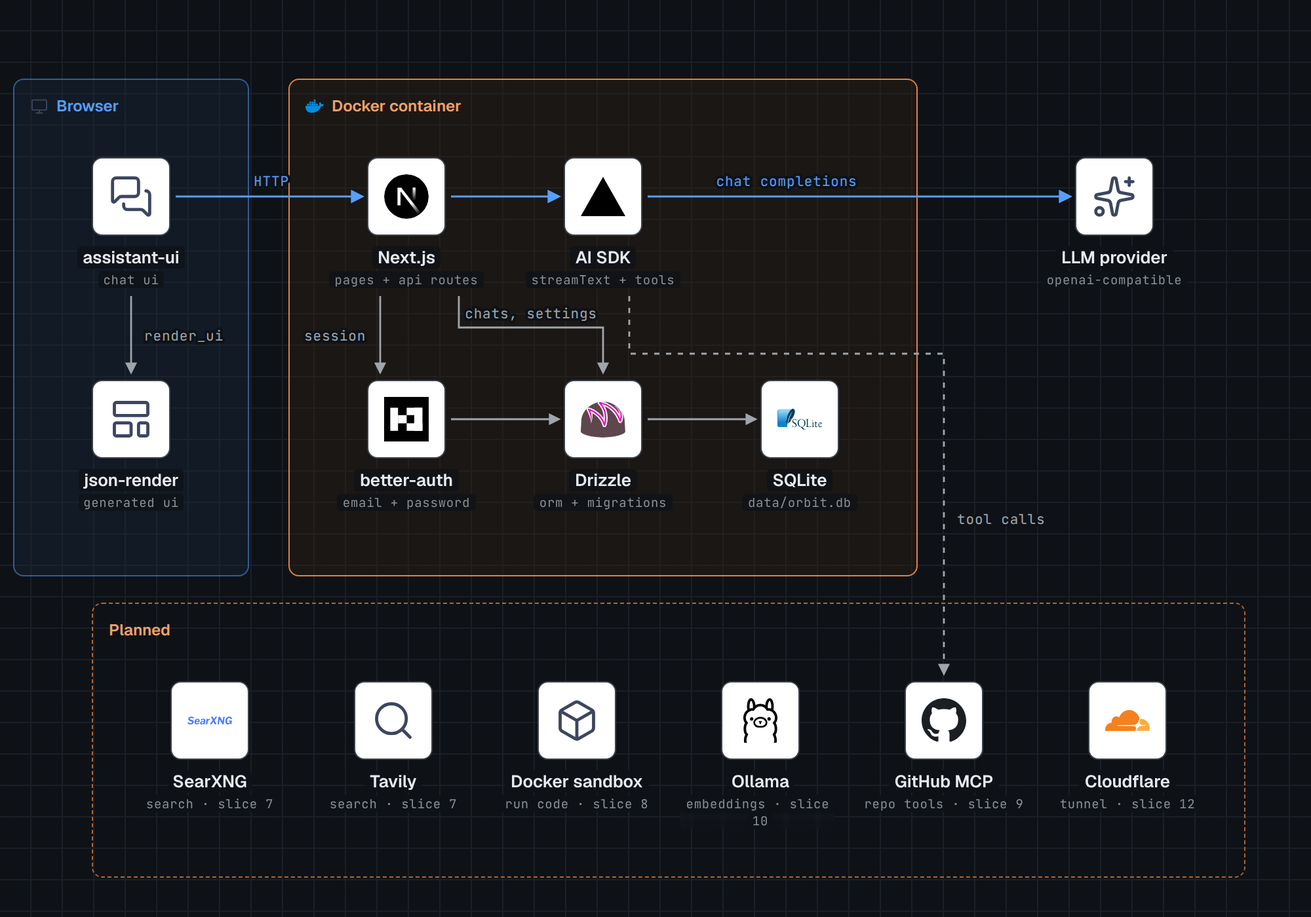
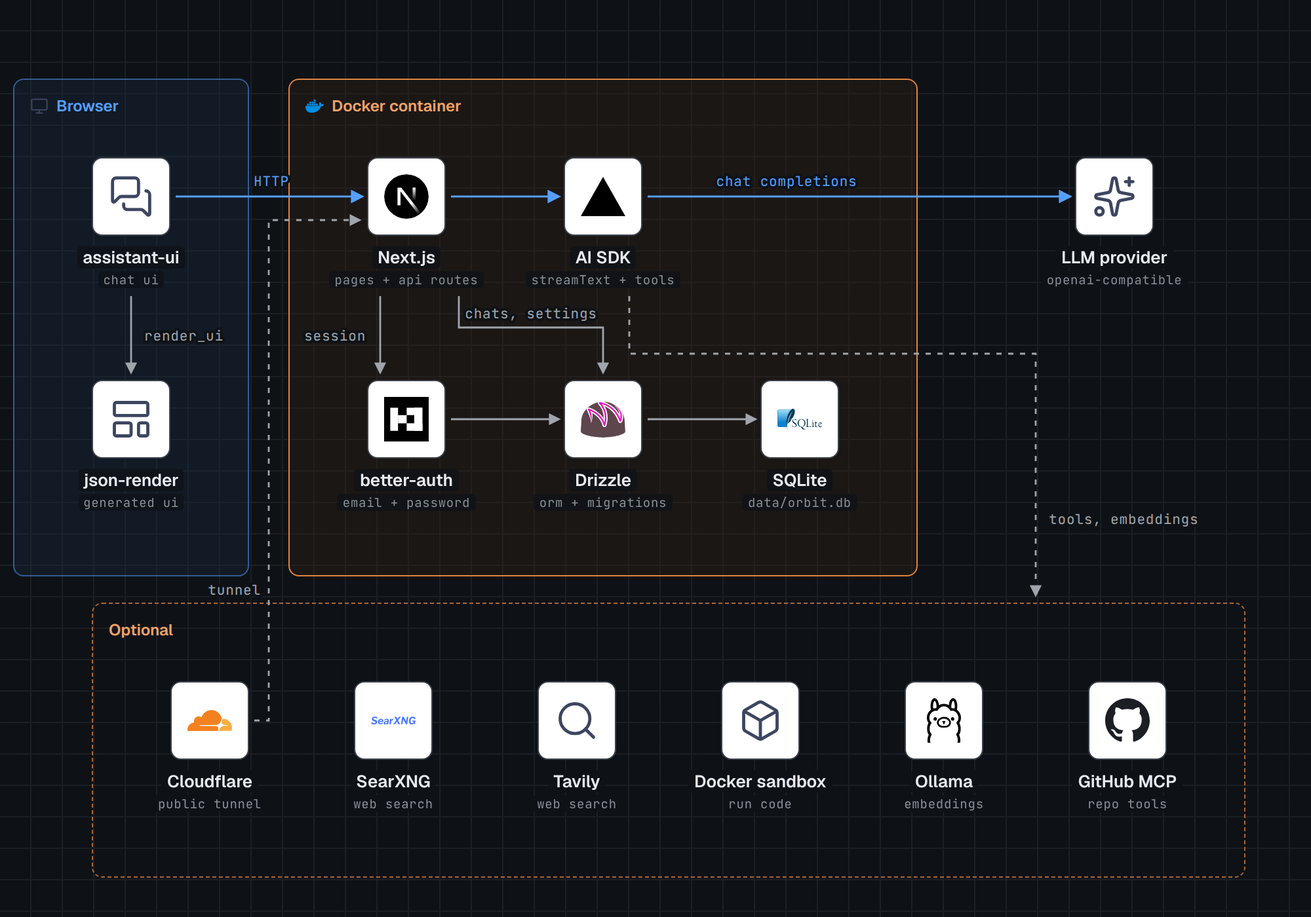
docs: describe slices 9 to 12 in ARCHITECTURE.md, README.md, and .env.example (#130) (#234)
* docs: describe slices 9 to 12 in ARCHITECTURE.md, README.md, and .env.example (#130)

* docs: draw shipped services as optional and cite ARCHITECTURE.md by section (#130)

The stack diagram still drew SearXNG, Tavily, the Docker sandbox,
Ollama, GitHub MCP, and Cloudflare in a box labeled Planned. All six
shipped in slices 7 to 12. The box is now labeled Optional, the
Cloudflare tunnel points into Next.js, and the outbound edge reads
"tools, embeddings". Both PNGs are re-rendered from the source, and the
note in ARCHITECTURE.md that said the drawing lagged is gone.

docs/slices/18.md cited ARCHITECTURE.md by line number, and those lines
had moved. It now names the sections and rows it means.

diff --git a/docs/architecture/stack.src.html b/docs/architecture/stack.src.html
@@ -163,7 +163,7 @@ path.aws { stroke: var(--color-ink); stroke-width:1.6; fill:none; }
       <div class="kicker">orbit / architecture / 2026-11</div>
       <h1>Orbit</h1>
     </div>
-    <p class="lede">One Next.js process on 127.0.0.1:3210. The dashed box is planned work.</p>
+    <p class="lede">One Next.js process on 127.0.0.1:3210. The dashed box holds optional services.</p>
   </header>
   <div class="scroller">
   <div class="canvas">
@@ -174,7 +174,7 @@ path.aws { stroke: var(--color-ink); stroke-width:1.6; fill:none; }
       <div class="g-label"><img src="%%ICON_docker%%" alt="">Docker container</div>
     </div>
     <div class="group ga-nested" style="left:70px; top:460px; width:880px; height:210px;">
-      <div class="g-label">Planned</div>
+      <div class="g-label">Optional</div>
     </div>
     <svg class="edges" viewBox="0 0 1000 700" aria-hidden="true">
       <defs>
@@ -195,8 +195,10 @@ path.aws { stroke: var(--color-ink); stroke-width:1.6; fill:none; }
       <text class="el" x="405" y="243" text-anchor="middle">chats, settings</text>
       <path class="n" d="M344 320 H426" marker-end="url(#ar)"/>
       <path class="n" d="M494 320 H576" marker-end="url(#ar)"/>
-      <path class="n dash" d="M480 226 V270 H720 V514" marker-end="url(#ar)"/>
-      <text class="el" x="730" y="400">tool calls</text>
+      <path class="n dash" d="M480 226 V270 H790 V454" marker-end="url(#ar)"/>
+      <text class="el" x="800" y="400">tools, embeddings</text>
+      <path class="n dash" d="M194 550 H205 V168 H274" marker-end="url(#ar)"/>
+      <text class="el" x="199" y="454" text-anchor="end">tunnel</text>
     </svg>
     <div class="node" style="left:34px;top:120px">
       <div class="tile"><img src="%%ICON_assistantui%%" alt=""></div>
@@ -231,35 +233,35 @@ path.aws { stroke: var(--color-ink); stroke-width:1.6; fill:none; }
       <div class="name"><span>LLM provider</span></div><div class="role"><span>openai-compatible</span></div>
     </div>
     <div class="node" style="left:94px;top:520px">
-      <div class="tile"><img src="%%ICON_searxng%%" alt=""></div>
-      <div class="name"><span>SearXNG</span></div><div class="role"><span>search · slice 7</span></div>
+      <div class="tile"><img src="%%ICON_cloudflare%%" alt=""></div>
+      <div class="name"><span>Cloudflare</span></div><div class="role"><span>public tunnel</span></div>
     </div>
     <div class="node" style="left:234px;top:520px">
-      <div class="tile"><img src="%%ICON_tavily%%" alt=""></div>
-      <div class="name"><span>Tavily</span></div><div class="role"><span>search · slice 7</span></div>
+      <div class="tile"><img src="%%ICON_searxng%%" alt=""></div>
+      <div class="name"><span>SearXNG</span></div><div class="role"><span>web search</span></div>
     </div>
     <div class="node" style="left:374px;top:520px">
-      <div class="tile"><img src="%%ICON_sandbox%%" alt=""></div>
-      <div class="name"><span>Docker sandbox</span></div><div class="role"><span>run code · slice 8</span></div>
+      <div class="tile"><img src="%%ICON_tavily%%" alt=""></div>
+      <div class="name"><span>Tavily</span></div><div class="role"><span>web search</span></div>
     </div>
     <div class="node" style="left:514px;top:520px">
-      <div class="tile"><img src="%%ICON_ollama%%" alt=""></div>
-      <div class="name"><span>Ollama</span></div><div class="role"><span>embeddings · slice 10</span></div>
+      <div class="tile"><img src="%%ICON_sandbox%%" alt=""></div>
+      <div class="name"><span>Docker sandbox</span></div><div class="role"><span>run code</span></div>
     </div>
     <div class="node" style="left:654px;top:520px">
-      <div class="tile"><img src="%%ICON_github%%" alt=""></div>
-      <div class="name"><span>GitHub MCP</span></div><div class="role"><span>repo tools · slice 9</span></div>
+      <div class="tile"><img src="%%ICON_ollama%%" alt=""></div>
+      <div class="name"><span>Ollama</span></div><div class="role"><span>embeddings</span></div>
     </div>
     <div class="node" style="left:794px;top:520px">
-      <div class="tile"><img src="%%ICON_cloudflare%%" alt=""></div>
-      <div class="name"><span>Cloudflare</span></div><div class="role"><span>tunnel · slice 12</span></div>
+      <div class="tile"><img src="%%ICON_github%%" alt=""></div>
+      <div class="name"><span>GitHub MCP</span></div><div class="role"><span>repo tools</span></div>
     </div>
   </div>
   </div>
   <div class="legend">
     <span><span class="sw"></span>request path</span>
     <span><span class="sw n"></span>internal</span>
-    <span><span class="sw n dash"></span>planned</span>
+    <span><span class="sw n dash"></span>optional</span>
   </div>
   <div class="foot">
     <span>orbit</span>

diff --git a/ARCHITECTURE.md b/ARCHITECTURE.md
@@ -8,19 +8,17 @@ Orbit is one Next.js process. It serves the pages, the API routes, and the chat 
 
 <picture>
   <source media="(prefers-color-scheme: dark)" srcset="docs/architecture/stack-dark.png">
-  <img alt="Orbit stack. The browser runs assistant-ui and json-render. A Docker container runs Next.js, the AI SDK, better-auth, Drizzle, and SQLite. The AI SDK calls an OpenAI-compatible provider. A dashed box holds planned services: SearXNG, Tavily, a Docker sandbox, Ollama, GitHub MCP, and Cloudflare." src="docs/architecture/stack.png">
+  <img alt="Orbit stack. The browser runs assistant-ui and json-render. A Docker container runs Next.js, the AI SDK, better-auth, Drizzle, and SQLite. The AI SDK calls an OpenAI-compatible provider. A dashed box groups the optional services: a Cloudflare tunnel into Next.js, then SearXNG, Tavily, a Docker sandbox, Ollama, and GitHub MCP, which the server calls for tools and embeddings." src="docs/architecture/stack.png">
 </picture>
-
-The diagram predates slices 7 and 8. SearXNG, Tavily, and the code sandbox now connect through the tool registry. The remaining dashed nodes are planned, and each node names its slice.
 
 ## One chat turn, end to end
 
 1. You type in the composer. assistant-ui sends `POST /api/chat` through `orbitChatTransport` in `src/lib/chat-transport.ts`. The transport puts the open chat id on the request, because assistant-ui would otherwise send its own local thread id.
 2. `src/proxy.ts` checks the session cookie and forwards any `Set-Cookie` header better-auth returns when a session refreshes or expires. `src/lib/session.ts` reads the session with refresh disabled so only the proxy moves a session forward. Every page and API route needs a session except `/login`, `/signup`, `/api/auth/*`, and `/api/setup`. An API request with a method other than `GET`, `HEAD`, or `OPTIONS`, other than `/api/auth/*`, gets 403 when it carries a `Sec-Fetch-Site` other than `same-origin`, or, without Fetch Metadata, an `Origin` that is not a trusted origin. The browser sets `Sec-Fetch-Site`, so a write it marks `same-origin` passes without consulting the trusted list. A write with neither header, such as curl, passes. `/api/auth/*` uses better-auth's origin check.
 3. `src/app/api/chat/route.ts` reads the body up to `LIMITS.requestBytes` (32 MiB, else `413`), parses it with zod, and holds each message the chat does not store yet to the message limits (a user message over 50,000 characters gets `413`; stored messages keep working at any length), loads the settings row, and calls `planChatWrite` in `src/lib/messages.ts`. That function saves the incoming user messages and returns a `ReplyPlan`: the id the reply will be stored under, plus copies of the prompt row and of the saved reply the stream continues, if any. It refuses a request with no user message with `400`, and a write planned against an older copy of the chat with `409`. It moves `chats.head_id` to the prompt, or to the saved reply the stream continues.
-4. The route calls `streamText` from the AI SDK with the model from `orbitModel` in `src/lib/provider.ts` and the tools from `toolsFor(settings)` in `src/lib/tools/index.ts`. The registry always enables `render_ui`, enables `web_search` when a search backend is configured, and enables `run_code` only when the server sets `ORBIT_SANDBOX=on`. The loop stops after at most five model steps. The fifth step allows only `render_ui` and receives the completed conversation as JSON data, so the model answers instead of calling another tool or writing tool-call markup. It keeps the route instructions so the model can answer with citations, render a card, or write an artifact without searching again.
+4. The route calls `streamText` from the AI SDK with the model from `orbitModel` in `src/lib/provider.ts` and the tools from `toolsForTurn` in `src/lib/tools/index.ts`. The registry always enables `render_ui`, `remember`, and `forget`, enables `web_search` when a search backend is configured, and enables `run_code` only when the server sets `ORBIT_SANDBOX=on`. `toolsForTurn` also tries to add the `github_*` tools when a GitHub token is saved. If loading fails, the failure is logged as one redacted line and the turn runs without GitHub tools. The route closes the GitHub client when the turn ends. Before the model call, the route asks `recall` in `src/lib/memory/recall.ts` for up to three memories relevant to the last user message. Recall returns none when there are no memories or nothing matches. Otherwise the route attaches them as quoted notes on that user message, as data and not as instructions, and adds `REMEMBER_INSTRUCTIONS` to the system text. The loop stops after at most five model steps. The fifth step allows only `render_ui` and receives the completed conversation as JSON data, so the model answers instead of calling another tool or writing tool-call markup. It keeps the route instructions so the model can answer with citations, render a card, or write an artifact without searching again.
 5. The stream goes back to the browser as AI SDK UI message parts. Text, reasoning, and tool parts render as they arrive.
-6. When the stream ends, `onEnd` passes the plan and the reply's parts to `finishChatReply` in `src/lib/messages.ts`. It saves only a reply that has a visible part, and nothing when a row the plan copied has changed. A regenerate saves a new sibling and keeps the earlier reply.
+6. When the stream ends, `onEnd` passes the plan and the reply's parts to `finishChatReply` in `src/lib/messages.ts`. It saves only a reply that has a visible part, and nothing when a row the plan copied has changed. A regenerate saves a new sibling and keeps the earlier reply. The hook also starts `embedPending()` in `src/lib/memory/embed.ts`, which fills in the memory vectors Ollama has not returned yet, and closes the GitHub tools.
 7. On reload, `src/app/(app)/c/[id]/page.tsx` loads every message and its parent into the history adapter. The chat opens the path ending at `chats.head_id`.
 
 ## The rules of a turn
@@ -101,29 +99,38 @@ statechart docs/architecture/ChatTurn.tla --config docs/architecture/ChatTurn.cf
 
 | Path | What lives there |
 | --- | --- |
-| `src/app/(app)/` | Signed-in pages: the chat at `/c/[id]`, settings, and the app shell layout. |
+| `src/app/(app)/` | Signed-in pages: the chat at `/c/[id]`, settings, the memory page, and the app shell layout. |
 | `src/app/login/`, `src/app/signup/` | The two public pages. |
 | `src/app/api/chat/route.ts` | The chat stream. The only route that calls the model. |
 | `src/app/api/chats/` | List and create chats, read one chat. `PATCH .../messages/[messageId]` saves an edited reply. |
-| `src/app/api/settings/`, `src/app/api/models/` | Read and save the provider settings. List the provider's models. |
+| `src/app/api/settings/`, `src/app/api/models/` | Read and save the provider, search, and GitHub settings. List the provider's models. |
+| `src/app/api/settings/github/check/` | Checks a saved or submitted GitHub token against the MCP server, and returns the login or the error. |
+| `src/app/api/memories/` | List and search memories. `PATCH .../[id]` edits one and `DELETE .../[id]` deletes one. |
+| `src/app/api/search/` | Full-text search over stored messages. |
 | `src/app/api/setup/` | Tells the login page whether signup is still open. |
+| `src/instrumentation.ts` | Runs once at server start. It imports the database, which migrates it, starts the dream scheduler, and starts the sandbox sweep when the sandbox is on. |
 | `src/proxy.ts` | The session gate for every request. |
 | `src/lib/db/` | The SQLite connection, the Drizzle schema, and the migration lock. |
 | `src/lib/messages.ts` | Chat and message reads and writes. All write planning lives here. |
+| `src/lib/memory/` | Memory storage, hybrid recall, Ollama embeddings, the nightly dream, and the dream scheduler. |
+| `src/lib/search.ts` | The FTS5 match queries behind message and memory search. |
 | `src/lib/provider.ts` | The model client, reasoning options, the model list, and provider quirks. |
 | `src/lib/settings.ts` | The settings row. `toPublicSettings` is the only shape that leaves the server. |
-| `src/lib/tools/` | The tool registry, SearXNG and Tavily search adapters, browser-safe card metadata, and tool status rules. |
+| `src/lib/tools/` | The tool registry, the GitHub MCP client, SearXNG and Tavily search adapters, browser-safe card metadata, and tool status rules. |
 | `src/lib/sandbox/` | The fixed container policy, pinned language images, per-run Docker lifecycle, and the sweep of stale containers. |
 | `src/components/tools/` | Saved tool run cards, search result links, and the generic JSON disclosure. |
 | `src/lib/genui/` | The `render_ui` tool: the component catalog, the spec parser, and the system prompt. |
 | `src/components/chat/` | Thread, messages, composer, code blocks, inline editors, and the thread map. |
+| `src/components/memory/` | The memory page body: the list, its search, and each row's save and delete errors. |
+| `src/components/settings/` | The settings form and its sections. |
+| `src/components/auth/` | The shared login and signup form. |
 | `src/lib/artifacts/` | Artifact language detection, prompt instructions and the sandboxed frame document. |
 | `src/components/artifacts/` | Preview registration, URL selection, lazy compilation and the responsive panel. |
 | `src/components/genui/` | The React side of `render_ui`: the component registry and the fallback card. |
 | `src/components/shell/` | App shell, sidebar, command palette, and keyboard shortcuts. |
 | `src/components/ui/` | shadcn/ui primitives, styled with the tokens in `src/app/globals.css`. |
 | `drizzle/` | SQL migrations. `npm run db:generate` writes new ones from `src/lib/db/schema.ts`. |
-| `scripts/` | Smoke tests against a running server and the browser QA script with its mock provider. |
+| `scripts/` | Smoke tests against a running server, the browser QA script with its mock provider, the nightly dream runner (`npm run dream`), and the Cloudflare deploy wizard. |
 | `.agents/skills/verify-orbit/` | The verification skill. It launches a sandboxed server and drives each feature. |
 | `.agents/skills/verify-chat-turn/` | Model-checks the chat write path with TLC, and records which functions each model describes. |
 
@@ -134,9 +141,12 @@ All state is in `data/orbit.db`. The directory is mode `0700`, and the database 
 | Table | Rows | Notes |
 | --- | --- | --- |
 | `user`, `session`, `account`, `verification` | better-auth's tables | A SQLite trigger, `user_single_row`, rejects a second user. |
-| `settings` | One row, `id = 1` | Base URL, provider key, model, reasoning effort, SearXNG URL, and Tavily key. Both keys stay on the server. |
+| `settings` | One row, `id = 1` | Base URL, provider key, model, reasoning effort, SearXNG URL, Tavily key, GitHub token, and GitHub MCP URL. The provider key, the Tavily key, and the GitHub token stay on the server. |
 | `chats` | One per conversation | `title` starts as `New chat` and takes the first message's text. `head_id` selects the last written branch. |
 | `messages` | One per user or assistant message | `parts` is the AI SDK parts array as JSON, and reload reads it. `content` is the plain text of the text parts, then the standard output and standard error of finished code runs, then the source of each code run. Search reads `content`. `parent_id` links each message to its parent. `position` is its depth. Siblings stay in creation order. |
+| `memories` | One per saved fact or preference | `kind`, `text` capped at 2,000 characters, normalized text that dedupes, and the source chat and message. `seq` is a stable integer key for the vector table, and `last_used_at` records the last recall that returned it. |
+| `memory_runs` | One per night | The dream run: `state`, the lease owner and deadline, the pending, done, and retry chat lists, and the added and merged counts. |
+| `messages_fts`, `memories_fts`, `memories_vec` | Search index tables | FTS5 over `messages` and `memories`, kept in sync by triggers, and the `vec0` table of memory embeddings, written by `src/lib/memory/store.ts`. |
 
 Tool output, generated UI specs, and reasoning all live inside `parts`. A new tool needs no new table unless it stores something outside a message.
 
@@ -146,21 +156,22 @@ Each container carries an owner label beside the shared sandbox label. The owner
 
 ## Rules that hold across the code
 
-- **The key stays on the server.** `GET /api/settings` returns `keySet`, `tavilyKeySet`, and `sandbox` booleans. `sandbox` says only whether the server set `ORBIT_SANDBOX=on`. The browser cannot change it. One `Redactor` (`src/lib/chat-errors.ts`), built from every stored credential, keeps the provider key, the Tavily key, and the GitHub token out of the chat route's log lines, the `errorText` of stream chunks, saved replies and their search text, and GitHub tool results and errors. In saved replies and tool results it replaces each value of 12 or more characters with `[redacted]`, matched literally with overlaps included, after the last step that decodes or joins text; shorter values stay, so a placeholder key such as `ollama` does not rewrite ordinary words. Log lines, stream error text and GitHub tool errors are never masked in place: when the raw error, the uncut text built from it, or the printed line holds a stored value of any length, the whole detail becomes a fixed text (`[redacted]`, or the log label alone), and a fixed text that itself holds a value is skipped. Other stream chunks reach the browser unmasked, and encoded or split keys are not matched (#186). A new settings field must be listed in its `SETTINGS_FIELDS` table, and a field whose name ends in `Key`, `Token`, `Secret`, `Password`, `Pat` or another noun in `CREDENTIAL_NOUNS`, plural, numbered or both, must be labelled `credential`, or typecheck fails. A credential kept in another table or read from the environment when used is outside that table. Tests and smoke scripts redact `ORBIT_API_KEY`.
+- **The key stays on the server.** `GET /api/settings` returns `keySet`, `tavilyKeySet`, `githubTokenSet`, and `sandbox` booleans. `sandbox` says only whether the server set `ORBIT_SANDBOX=on`. The browser cannot change it. One `Redactor` (`src/lib/chat-errors.ts`), built from every stored credential, keeps the provider key, the Tavily key, and the GitHub token out of the chat route's log lines, the `errorText` of stream chunks, saved replies and their search text, and GitHub tool results and errors. In saved replies and tool results it replaces each value of 12 or more characters with `[redacted]`, matched literally with overlaps included, after the last step that decodes or joins text; shorter values stay, so a placeholder key such as `ollama` does not rewrite ordinary words. Log lines, stream error text and GitHub tool errors are never masked in place: when the raw error, the uncut text built from it, or the printed line holds a stored value of any length, the whole detail becomes a fixed text (`[redacted]`, or the log label alone), and a fixed text that itself holds a value is skipped. Other stream chunks reach the browser unmasked, and encoded or split keys are not matched (#186). A new settings field must be listed in its `SETTINGS_FIELDS` table, and a field whose name ends in `Key`, `Token`, `Secret`, `Password`, `Pat` or another noun in `CREDENTIAL_NOUNS`, plural, numbered or both, must be labelled `credential`, or typecheck fails. A credential kept in another table or read from the environment when used is outside that table. Tests and smoke scripts redact `ORBIT_API_KEY`.
 - **One user.** The auth hook and the database trigger both close signup after the first account.
 - **Validate at the edge.** Routes parse request bodies, queries, and path parameters with zod schemas built from `r` in `src/lib/route-schema.ts`, which has no string or list without a size limit. `route-schema.test.ts` fails a route that imports `zod` directly. Tool input is parsed by the tool's schema and then by `parseRenderSpec`. Code behind those checks trusts its types.
 - **A browser request names its failure.** Browser code calls `requestJson` in `src/lib/request-json.ts`, never `fetch`. It takes a zod schema, `onOk`, and a required `onFailed` that receives `network`, `http` with the status, `invalid` for a body that is not JSON or does not match the schema, or `handler` when `onOk` threw. `requestJson` never rejects: a handler that throws is logged with `console.error`. A request whose signal was aborted runs neither, and `useLatestRequest` aborts the previous one, so an older answer cannot overwrite a newer one. A load that a screen shows is `Loaded<T>` (`idle`, `pending`, `failed`, `done`), so only `done` can show an empty result. `src/lib/no-direct-fetch.test.ts` fails on a direct `fetch(`, `fetch?.(`, `["fetch"](`, `XMLHttpRequest`, `EventSource`, or `sendBeacon` call; it cannot see an alias of `fetch` or a call split across lines. The chat stream transport is not a JSON request and is out of scope.
 - **The server owns history.** The client sends its copy of the thread, but `planChatWrite` decides what is stored and refuses a write against a changed chat.
-- **Bind to localhost.** Docker Compose publishes `127.0.0.1:3210` only. Remote access is planned behind Cloudflare Access in [slice 12](docs/slices/12.md).
+- **Bind to localhost.** Docker Compose publishes `127.0.0.1:3210` only. The `public` Compose profile starts a `cloudflared` tunnel, so remote access goes through Cloudflare Access and no port opens on the machine.
 
 ## Feature boundaries
 
 Shipped and planned slices use these boundaries. The plans in [`docs/slices/`](docs/slices/) give the details.
 
-- **Tools.** `toolsFor(settings)` in `src/lib/tools/` builds the enabled tools. [Slice 7](docs/slices/07.md) adds SearXNG search with Tavily as a fallback. Each backend has an eight-second timeout. Tavily cancellation uses a request-scoped signal adapter because the pinned SDK has no signal option. Concurrent requests keep separate signals. The browser shares only card metadata with the registry. Run cards derive running, succeeded, failed, or cancelled from message parts and survive reload. `toolRunEnd` and `toolCallRunEnd` in `src/lib/tools/run-status.ts` are the only code that decides this, and `STOP_MARKERS` there holds every stop text that saved chats store. `run-status-scan.test.ts` fails when another file compares `errorText` or `output.error`, or writes a stop text as a literal. Unknown tools show their output behind a disclosure.
+- **Tools.** `toolsForTurn` in `src/lib/tools/` builds one turn's tools from the registry and adds the `github_*` tools when a GitHub token is saved. [Slice 7](docs/slices/07.md) adds SearXNG search with Tavily as a fallback. Each backend has an eight-second timeout. Tavily cancellation uses a request-scoped signal adapter because the pinned SDK has no signal option. Concurrent requests keep separate signals. The browser shares only card metadata with the registry. Run cards derive running, succeeded, failed, or cancelled from message parts and survive reload. `toolRunEnd` and `toolCallRunEnd` in `src/lib/tools/run-status.ts` are the only code that decides this, and `STOP_MARKERS` there holds every stop text that saved chats store. `run-status-scan.test.ts` fails when another file compares `errorText` or `output.error`, or writes a stop text as a literal. Unknown tools show their output behind a disclosure.
 - **Artifacts.** [Slice 5](docs/slices/05.md) renders HTML, SVG, and React code blocks in a side panel. The code runs in an `<iframe sandbox="allow-scripts">` with a strict Content Security Policy, so it cannot read the app's cookies or call its API. The app page paths in `next.config.ts` send `frame-src 'none'`, so the frame cannot load another URL into itself. Route handlers can set their own CSP.
 - **History.** Messages form a tree. Edits and regenerates add siblings, and the branch picker switches between them. A reload opens the last written branch. Switching alone does not update `head_id`. A search hit off that branch opens the branch through the hit that was written last, which ends at the newest message below the hit, and does not update `head_id` either.
 - **Search.** [Slice 6](docs/slices/06.md) adds an FTS5 index (SQLite full-text search) over `messages`, kept in sync by triggers.
+- **GitHub.** [Slice 9](docs/slices/09.md) adds the `github_*` tools from GitHub's MCP server, read-only, limited to the repository, issue, and pull request toolsets. `toolsForTurn` loads them only when the settings row holds a GitHub token, and caches the tool list for five minutes per token. The route closes the client when the turn ends. When the server is unreachable or the token is wrong, the turn still runs without GitHub tools and logs one redacted line. GitHub tool results are untrusted text: the route tells the model so, and run cards render them as links.
 - **Memory.** [Slice 10](docs/slices/10.md) adds a `memories` table with its own FTS5 index and a `sqlite-vec` table for embeddings from Ollama. [Slice 11](docs/slices/11.md) fills it from the day's chats each night. A night's row in `memory_runs` changes only through `transition` in `src/lib/memory/run-state.ts`, which `advance` in `src/lib/memory/dream.ts` applies inside one write transaction. A run reaches `done` only with a successful final embed pass, and a failed run keeps every unfinished chat for the next night.
 
 ## Rebuild the stack diagram

diff --git a/docs/slices/18.md b/docs/slices/18.md
@@ -311,7 +311,7 @@ Edit:
 - `.agents/skills/verify-orbit/verify.mjs`. Add `seed-member`, which writes `member@orbit.local` with a fixed test password into `.verify/sandbox/data/orbit.db` using `hashPassword` from `better-auth/crypto`, and refuses any other database. Add one helper that saves instance settings through `/api/admin/settings`.
 - Every scenario, feature file, and script that saves search or GitHub settings. `rg -ln "searxngUrl|tavilyApiKey|githubToken|api/settings" .agents scripts` finds 29 files at `291149c`. Slice 17 changes some first. Point them at the new helper instead of editing each request by hand.
 - `.env.example`, README env table (`ORBIT_GITHUB_TOKEN` seeds the first account, `ORBIT_DREAM_HOUR` seeds the dream hour, search seeds seed `instance_settings`).
-- `ARCHITECTURE.md` lines 20-21, 103-104, 109, 130-131, 141-142, 155 for the new tables, routes, and the policy. Line 142 stays true but names `policyFor`.
+- `ARCHITECTURE.md` for the new tables, routes, and the policy: steps 3 and 4 of "One chat turn, end to end", the `src/app/api/settings/`, `src/app/api/setup/`, and `src/lib/settings.ts` rows of "Code map", the better-auth and `settings` rows of "Data model", the **The key stays on the server** and **One user** rules in "Rules that hold across the code", and the **Memory** entry in "Feature boundaries". The **One user** rule stays true but names `policyFor`.
 - `SECURITY.md` lines 17-19 and 27-28. The GitHub token is now encrypted at rest.
 - `AGENTS.md` line 13, to name `/api/admin/settings` and `/api/settings` as the routes that return `...Set` flags.
 
@@ -344,7 +344,7 @@ Edit:
 - `package.json` (`undici` at `7.30.1`).
 - `README.md` lines 3, 22, and **Deploy behind Cloudflare** (`:146`). Add **Several accounts**. In `personal` nothing changes. In `team`, add each member's email to the Access Allow policy before sending the invite. In `community`, an email list cannot name strangers, so either use an Access policy that admits any email after a one-time PIN, or run without Access and rely on Orbit's sign-in. Check the current Cloudflare dashboard wording for that policy before writing it. State that no path needs a bypass rule yet.
 - `docs/roadmap.md` lines 3, 10, and 15. The goal becomes "one person by default, or a team or community on one install". The non-goal "Several users, teams, or sharing" becomes "Public sharing of chats", which slice 22 removes.
-- `ARCHITECTURE.md` line 19 (public paths), line 142 (the one-user rule becomes the hosting-mode rule), line 130.
+- `ARCHITECTURE.md` step 2 of "One chat turn, end to end" (public paths), the **One user** rule in "Rules that hold across the code" (it becomes the hosting-mode rule), and the better-auth row of "Data model".
 - `SECURITY.md` line 15, line 19, line 36, and a new **Accounts** section: the ownership rule, the admin 403 rule, one admin, hashed single-use invites, the `community` SSRF guard, no email verification, removal deleting all data.
 - `docs/slices/README.md` and `docs/roadmap.md` tables for slice 18.
 

diff --git a/README.md b/README.md
@@ -16,6 +16,9 @@ Orbit is a self-hosted chat app, shaped like ChatGPT or Claude, for one person w
 - Find chats with the command palette (⌘K or Ctrl+K) and move around with keyboard shortcuts.
 - Find a message by its text and give new chats short model-written titles.
 - Search the web through SearXNG or Tavily and answer with source links.
+- Read your GitHub repositories, issues, and pull requests when you save a GitHub token.
+- Remember facts across chats. The model saves a memory, and a `/memory` page lists, searches, edits, and deletes them.
+- A nightly job turns the day's chats into memories.
 - Keep chats, settings, and the account in `data/orbit.db`. The API key stays on the server.
 - Work on a phone at 390 px wide.
 - Run short Python and JavaScript programs in isolated containers when the operator enables the code sandbox.
@@ -105,6 +108,7 @@ Every variable is optional.
 | `ORBIT_TAVILY_API_KEY` | Empty | Seed the server-side Tavily key on a new database. Tavily runs when SearXNG fails or returns no results. |
 | `ORBIT_GITHUB_TOKEN` | Empty | Seed the server-side GitHub token on a new database. Tools stay read-only and cover repositories, issues, and pull requests. The token is sent only to `api.githubcopilot.com`, `github.com`, and `api.github.com` over HTTPS. |
 | `ORBIT_OLLAMA_URL` | `http://127.0.0.1:11434` | Ollama base URL for memory embeddings. The model is `nomic-embed-text`. Compose defaults to `http://host.docker.internal:11434`. |
+| `ORBIT_DREAM_HOUR` | `3` | Local hour when the nightly memory pass starts. The Docker image runs UTC unless `TZ` is set, so 3 means 03:00 UTC there. |
 | `ORBIT_SANDBOX` | Off | Source builds use `on` to enable `run_code`. Compose requires the [sandbox override](#enable-the-code-sandbox). Settings shows whether it is on. |
 | `DOCKER_HOST` | Local Docker socket for source builds | Configure the local connection for source builds. Default Compose omits it. The sandbox override sets a private proxy. Remote Docker hosts are unsupported. |
 | `ORBIT_DATA_DIR` | `./data` | Where Orbit keeps `orbit.db` and `auth-secret`. |

diff --git a/CHANGELOG.md b/CHANGELOG.md
@@ -4,6 +4,7 @@ All notable changes to Orbit are listed here. The format follows [Keep a Changel
 
 ## [Unreleased]
 
+- The README, ARCHITECTURE.md, and `.env.example` describe the shipped GitHub tools, memory, the nightly dream, and the Cloudflare deploy. The stack diagram draws SearXNG, Tavily, the code sandbox, Ollama, GitHub MCP, and Cloudflare as optional services instead of planned ones. `.env.example` also lists `ORBIT_TRUSTED_ORIGINS` for runs from source. (#130)
 - The Memory page formats each memory's date only in the browser, in the reader's time zone, so a reader in a different zone from the server no longer gets React hydration error #418. (#140)
 - Signed-out requests to paths such as `/api/authors` now get the same sign-in check as other API requests. (#134)
 - A refreshed session cookie now reaches the browser on page and API responses, so daily use keeps a session rolling forward past 7 days without a forced sign-in. (#119)
